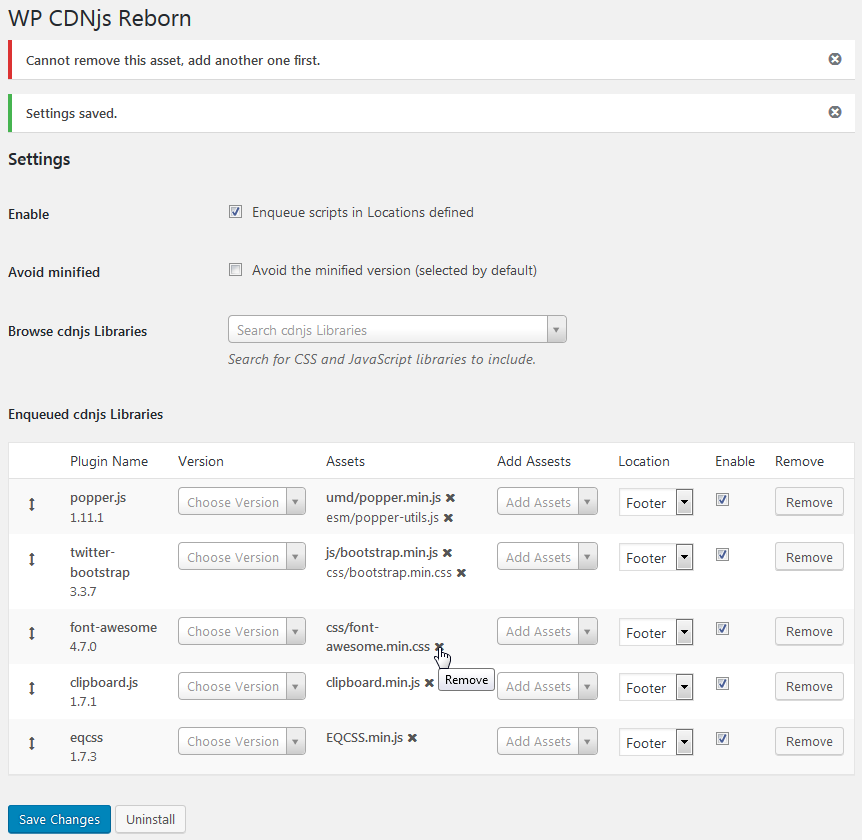
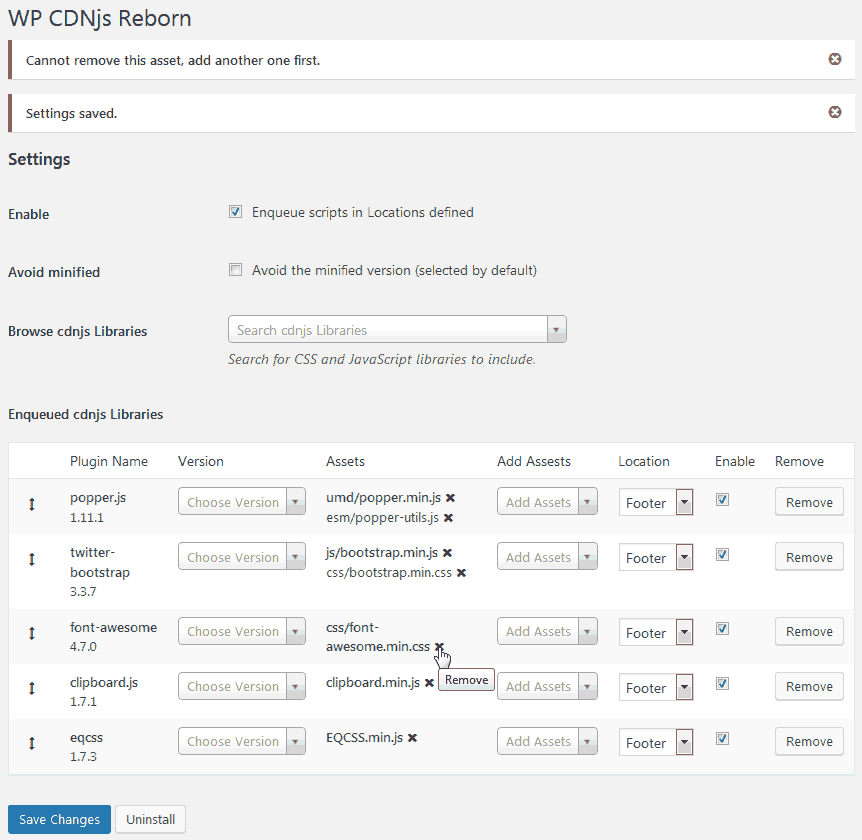
* compress screenshots + moved settings-framework.php under lib

diff --git a/wp-cdnjs-reborn.php b/wp-cdnjs-reborn.php
@@ -142,7 +142,7 @@ if(!class_exists('WP_CDNJS')) : /**
 
 			// Settings Framework
       add_action('admin_menu', array($this, 'admin_menu'), 99);
-			require_once(WP_CDNJS_DIR_PATH.'lib/settings-framework/settings-framework.php');
+			require_once(WP_CDNJS_DIR_PATH.'lib/settings-framework.php');
 			$this->settings_framework = new wp_cdnjs_settings(WP_CDNJS_DIR_PATH.'views/wp-cdnjs-reborn-settings.php', WP_CDNJS_OPTIONS);
 			// Add an optional settings-framework validation filter (recommended)
 			add_filter($this->settings_framework->get_option_group().'_validate', array($this, 'validate_settings'));
